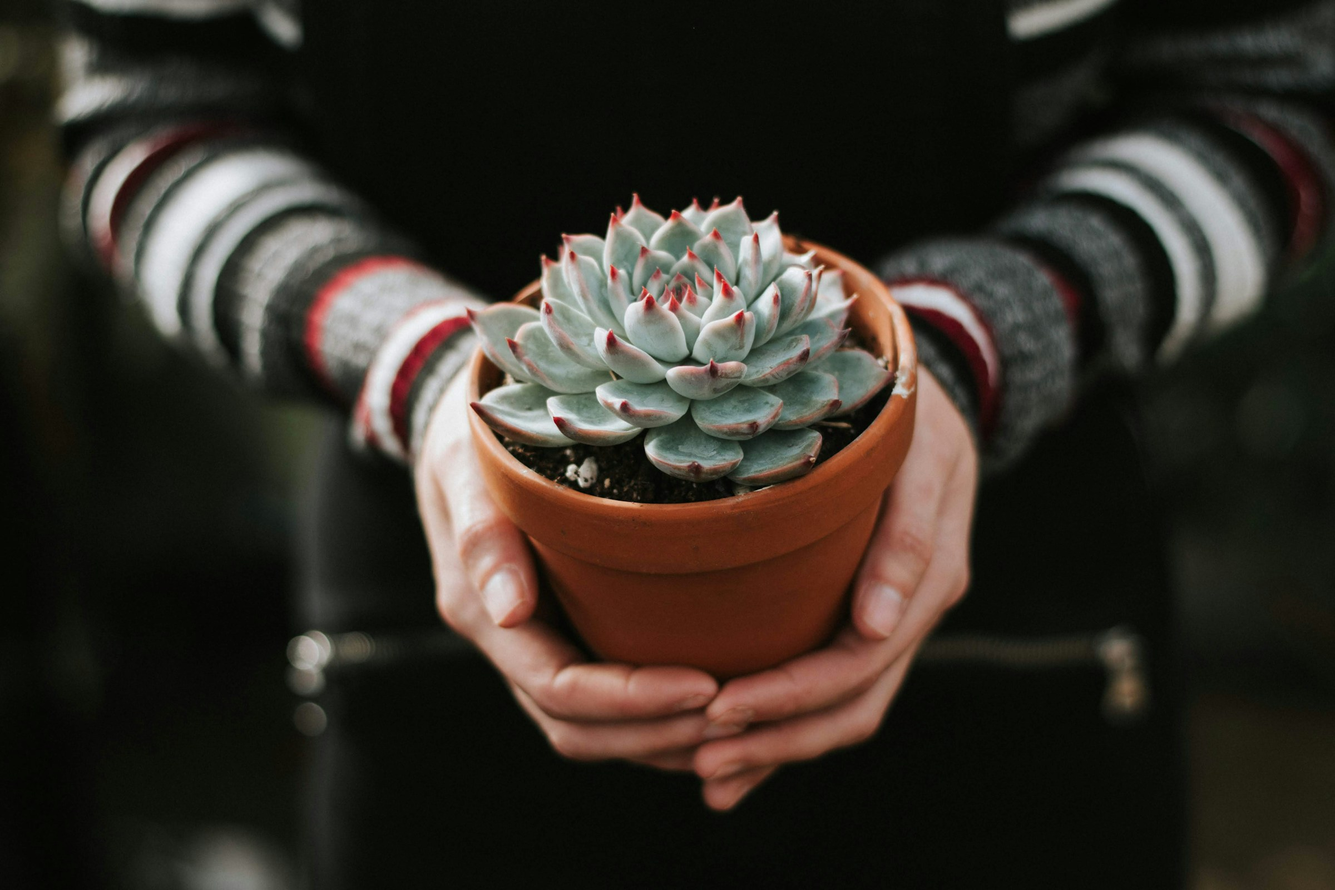
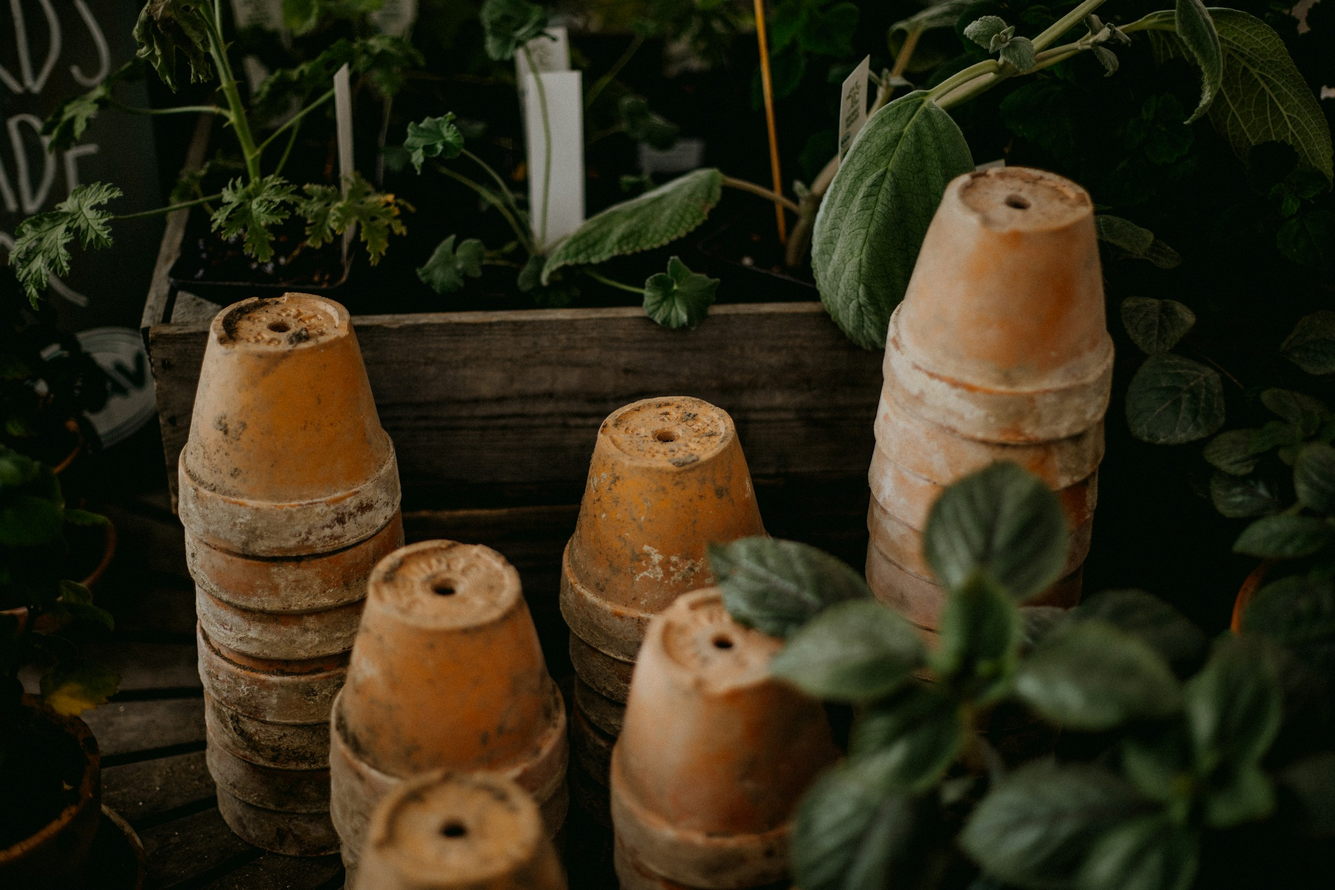
Imbunatatiri UI dashboard si pagina index

diff --git a/static/control.js b/static/control.js
@@ -36,9 +36,20 @@
 
   // ---------- Helpers ----------
 
-  function setControlsDisabled(disabled) {
+  /**
+   * Activează / dezactivează zona de comenzi.
+   * @param disabled  true => butoanele sunt blocate
+   * @param showBanner true => afişează şi bannerul "hub offline".
+   *        La intrarea pe tab blocăm comenzile dar NU arătăm bannerul,
+   *        ca să nu apară un flash înainte de primul răspuns de polling.
+   *
+   * Orice apel ascunde bannerul de loading — el e vizibil doar până la
+   * primul răspuns de polling.
+   */
+  function setControlsDisabled(disabled, showBanner) {
     el.flow.dataset.disabled = disabled ? 'true' : 'false';
-    el.offline.hidden = !disabled;
+    el.offline.hidden = !(disabled && showBanner);
+    el.loading.hidden = true;
   }
 
   /** Aplică o stare vizuală ('on' | 'off' | 'pending') unui buton. */
@@ -111,14 +122,16 @@
       const j = await r.json();
 
       if (!j.online || !j.data) {
-        setControlsDisabled(true);
+        // Hub confirmat offline => blocăm + afişăm bannerul.
+        setControlsDisabled(true, true);
         return;
       }
 
-      setControlsDisabled(false);
+      // Hub online => deblocăm comenzile, ascundem bannerul.
+      setControlsDisabled(false, false);
       render(j.data);
     } catch (e) {
-      setControlsDisabled(true);
+      setControlsDisabled(true, true);
     }
   }
 
@@ -237,6 +250,11 @@
 
   function startPolling() {
     if (pollTimer) return;
+    // Stare iniţială: comenzi blocate, banner de loading vizibil,
+    // banner offline ascuns — până vine primul răspuns de la poll().
+    el.flow.dataset.disabled = 'true';
+    el.loading.hidden = false;
+    el.offline.hidden = true;
     poll();
     pollTimer = setInterval(poll, POLL_MS);
   }
@@ -257,6 +275,7 @@
     el = {
       flow: document.getElementById('control-flow'),
       offline: document.getElementById('control-offline'),
+      loading: document.getElementById('control-loading'),
       waterStatus: document.getElementById('water-status'),
       hydroPump: document.getElementById('hydro-pump'),
       hydroValve1: document.getElementById('hydro-valve1'),

diff --git a/static/index.css b/static/index.css
@@ -17,12 +17,12 @@
   position: relative;
 }
 
-/* ----- Întunecare 50% peste background ----- */
+/* ----- Întunecare 25% peste background ----- */
 .page-home::before {
   content: '';
   position: fixed;
   inset: 0;
-  background-color: rgba(0, 0, 0, 0.5);
+  background-color: rgba(0, 0, 0, 0.25);
   pointer-events: none;
   z-index: 0;
 }
@@ -31,6 +31,29 @@
 .page-home > * {
   position: relative;
   z-index: 1;
+}
+
+/* ----- HEADER sticky ----- */
+.page-home > header {
+  position: sticky;
+  top: 0;
+  z-index: 10;
+  /* Bara se întinde pe toată lăţimea ecranului — anulăm constrângerea
+     de lăţime moştenită din .container. */
+  max-width: none;
+  padding-inline: 0;
+  /* Fundal cu blur — conţinutul care trece pe sub header rămâne lizibil */
+  background: rgba(13, 31, 23, 0.72);
+  backdrop-filter: blur(14px) saturate(1.2);
+  -webkit-backdrop-filter: blur(14px) saturate(1.2);
+  border-bottom: 1px solid var(--color-border-soft);
+}
+
+/* Conţinutul barei (logo + linkuri) rămâne centrat şi constrâns. */
+.page-home > header .nav {
+  max-width: var(--container-max);
+  margin-inline: auto;
+  padding-inline: var(--container-pad);
 }
 
 /* ----- HERO ----- */
@@ -47,7 +70,6 @@
 
 .hero__inner {
   display: block;
-  min-height: 50vh;
   padding-block: var(--space-4);
 }
 
@@ -217,6 +239,10 @@
   border-radius: var(--radius-lg);
   background: var(--color-surface);
   border: 1px solid var(--color-border-soft);
+  /* Blur pe fundal — separă cardul de imaginea din spate
+     ca textul să fie mai uşor de citit. */
+  backdrop-filter: blur(14px);
+  -webkit-backdrop-filter: blur(14px);
   transition: transform var(--dur-base) var(--ease-out),
               border-color var(--dur-base) var(--ease-out),
               background-color var(--dur-base) var(--ease-out);

diff --git a/templates/dashboard.html b/templates/dashboard.html
@@ -26,7 +26,10 @@
             <path d="M4 4 L20 20"/>
           </svg>
         </span>
-        Dropwise
+        <span class="topbar__brand-text">
+          Dropwise
+          <span class="topbar__brand-sub">DASHBOARD</span>
+        </span>
       </a>
 
       <!-- Taburi centru -->
@@ -383,13 +386,23 @@
         </p>
       </header>
 
+      {# Banner de loading — vizibil până la primul răspuns de polling #}
+      <div id="control-loading" class="control-loading panel">
+        <span class="control-loading__dots" aria-hidden="true">
+          <span></span><span></span><span></span>
+        </span>
+        <span>Se verifică starea hub-ului…</span>
+      </div>
+
       {# Banner — vizibil cât timp hub-ul nu răspunde #}
       <div id="control-offline" class="control-offline panel" hidden>
         <span class="status-pill__led" aria-hidden="true"></span>
         <span>Hub-ul nu răspunde. Comenzile sunt indisponibile.</span>
       </div>
 
-      <div id="control-flow">
+      {# Pornit dezactivat — comenzile se deblochează abia după ce
+         polling-ul confirmă hub-ul online. #}
+      <div id="control-flow" data-disabled="true">
 
         {# ---- Secţiunea A: Toggle GPIO direct ---- #}
         <div class="panel">

diff --git a/static/control.css b/static/control.css
@@ -3,7 +3,41 @@
    Toggle GPIO (pompă/valve) + udare per port cu diagramă.
    ============================================================ */
 
-/* ---------- 1. Banner hub offline ---------- */
+/* ---------- 1. Banner de loading (până la primul răspuns) ---------- */
+
+.control-loading {
+  display: flex;
+  align-items: center;
+  gap: var(--space-3);
+  margin-bottom: var(--space-5);
+  font-size: var(--fs-sm);
+  color: var(--color-text-muted);
+  padding: var(--space-4) var(--space-5);
+}
+
+/* Trei puncte care palpâie pe rând */
+.control-loading__dots {
+  display: inline-flex;
+  gap: 4px;
+}
+
+.control-loading__dots span {
+  width: 6px;
+  height: 6px;
+  border-radius: 50%;
+  background: var(--color-mint);
+  animation: control-dot 1.2s ease-in-out infinite;
+}
+
+.control-loading__dots span:nth-child(2) { animation-delay: 0.2s; }
+.control-loading__dots span:nth-child(3) { animation-delay: 0.4s; }
+
+@keyframes control-dot {
+  0%, 80%, 100% { opacity: 0.25; transform: scale(0.8); }
+  40%           { opacity: 1;    transform: scale(1); }
+}
+
+/* ---------- 1b. Banner hub offline ---------- */
 
 .control-offline {
   display: flex;

diff --git a/templates/index.html b/templates/index.html
@@ -56,21 +56,6 @@
                 <span class="btn__arrow" aria-hidden="true">→</span>
               </a>
             </div>
-
-            <div class="hero__meta anim-rise delay-5">
-              <span class="hero__meta-item">
-                <span class="hero__meta-dot" aria-hidden="true"></span>
-                Hub + 3 noduri
-              </span>
-              <span class="hero__meta-item">
-                <span class="hero__meta-dot" aria-hidden="true"></span>
-                ESP-NOW · WiFi · BLE
-              </span>
-              <span class="hero__meta-item">
-                <span class="hero__meta-dot" aria-hidden="true"></span>
-                Dashboard responsive
-              </span>
-            </div>
           </div>
         </div>
       </div>

diff --git a/static/dashboard.css b/static/dashboard.css
@@ -69,6 +69,22 @@
   color: var(--color-text);
 }
 
+/* Blocul de text: "Dropwise" cu "DASHBOARD" dedesubt */
+.topbar__brand-text {
+  display: flex;
+  flex-direction: column;
+  line-height: 1.25;
+}
+
+.topbar__brand-sub {
+  font-family: var(--font-body);
+  font-size: 0.625rem;          /* 10px — mai mic decât numele */
+  font-weight: 600;
+  letter-spacing: var(--tracking-wider);
+  color: var(--color-text-faint);
+  margin-top: 2px;
+}
+
 .topbar__brand-mark {
   width: 32px;
   height: 32px;
